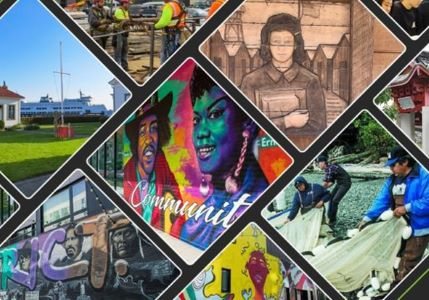
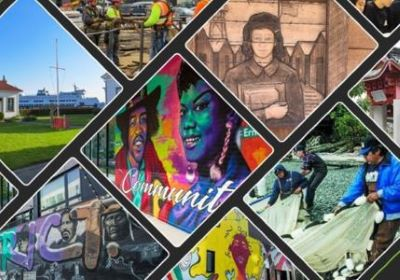
beautification, attribute photo

diff --git a/index.html b/index.html
@@ -19,23 +19,23 @@
     <h1>Come explore PSRC's data!</h1>
     <h1>Yes, we're talking to you standing in front of this monitor.</h1>
   </div>
-    </header>
     <main>
         <section>
             <div class="row1-container">
-                <div class="box box-down cyan">
+                <div class="box cyan">
                     <div>
                         <h2>Puget Sound Trends</h2>
-                        <a href="https://www.psrc.org/puget-sound-trends" target="_blank"><img src="images/vmt.png" alt="PSRC Trendsl"></a><br/>
+                        <a href="https://www.psrc.org/puget-sound-trends" target="_blank"><img src="images/housingprod.png" alt="PSRC Trends"></a><br/>
                     </div>
                 </div>
-                    <div class = "box red">
+                    <div class = "box box-down red">
                     <div>
                     <h2>PSRC Data Portal</h2>
                         <a href="https://psrc-psregcncl.hub.arcgis.com/" target="_blank"><img src="images/portal.jpg" alt="PSRC Data Portal"></a><br/>
+                        <a href="https://www.flickr.com/photos/126654539@N08/" class="img-attrib">Phil Dolby</a>
                     </div>
                 </div>
-                    <div class = "box box-down blue">
+                    <div class = "box blue">
                         <div>
                             <h2>Housing Permit Time - Hackathon</div></h2>
                             <a href="https://psrcwa.shinyapps.io/seattle-hackathon/" target="_blank"><img src="images/hackathon.jpg" alt="Housing Permit Time"></a><br/>
@@ -43,19 +43,19 @@
                     </div>    
                 </div>
             <div class = "row2-container">
-                <div class = "box box-down orange">
+                <div class = "box orange">
                     <div>
                         <h2>Community Profiles</h2>
                         <a href="https://psrcwa.shinyapps.io/community-profiles/" target="_blank"><img src="images/community-profiles.jpg" alt="Community Profiles"></a><br/>
                     </div>
                 </div>
-                <div class = "box blue">
+                <div class = "box box-down blue">
                     <div>
                         <h2>Legacy of Structural Racism </h2>
                             <a href="https://storymaps.arcgis.com/collections/22286877bbcd4a648250fa074b5003ea" target="_blank"><img src="images/legacy-structural-racism.jpg" alt="Legacy of Structural Racism"></a><br/>
                     </div>
                 </div>
-                <div class = "box box-down red">
+                <div class = "box red">
                     <div>
                         <h2>Regional Transportation Plan Dashboard</h2>
                         <a href="https://psrcwa.shinyapps.io/development-rtp-dashboard/" target="_blank"><img src="images/street-intersection.jpg" alt="Regional Transportation Plan Dashboard"></a><br/>

diff --git a/styles.css b/styles.css
@@ -47,12 +47,18 @@ h1:last-of-type {
     margin-top: 100px;
 }
 
+
 .header p {
-    margin: 0 auto;
+    margin: 100px;
     line-height: 2;
     color: var(--grayishBlue);
 }
 
+.body {
+    color: var(--grayishBlue);
+    text-align: left;
+    font-size:  13;
+  }
 
 .box p {
     color: var(--grayishBlue);
@@ -61,7 +67,7 @@ h1:last-of-type {
 
 .box {
     border-radius: 5px;
-    box-shadow: 0px 30px 40px -20px var(--grayishBlue);
+    box-shadow: 20px 30px 40px 20px var(--grayishBlue);
     padding: 30px;
     margin: 20px; 
     object-fit: contain; 
@@ -71,6 +77,10 @@ img {
     float: right;
     object-fit: contain;
 }
+.img-container {
+    position: relative;
+    display: inline-block;
+  }
 
 @media (max-width: 450px) {
     .box {
